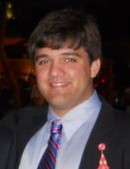
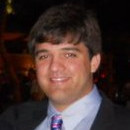
Make all images square; minor design change to character.html

diff --git a/app/templates/character.html b/app/templates/character.html
@@ -74,6 +74,20 @@
         {% else %}
           <p>{{character.spouse}}</p>
         {% endif %}
+
+        <h3>Allegiances</h3>
+          <div class="list-group">
+            {% for house in character.allegiances %}
+              <a class="list-group-item" href="../house/{{house['id']}}">{{house['name']}}</a>
+            {% endfor %}
+
+        <h3>Culture</h3>
+        {% if (character.culture == "") %}
+          <p>Unknown</p>
+        {% else %}
+          <p>{{character.culture}}</p>
+        {% endif %}
+        </div>
       </div>
 
       <div class="col-md-6">
@@ -94,22 +108,7 @@
     </div>
 
     <div class="row">
-      <div class="col-md-6">
-        <h3>Allegiances</h3>
-          <div class="list-group">
-            {% for house in character.allegiances %}
-              <a class="list-group-item" href="../house/{{house['id']}}">{{house['name']}}</a>
-            {% endfor %}
 
-        <h3>Culture</h3>
-        {% if (character.culture == "") %}
-          <p>Unknown</p>
-        {% else %}
-          <p>{{character.culture}}</p>
-        {% endif %}
-        </div>
-      </div>
-      
     </div>
   </div>
 
